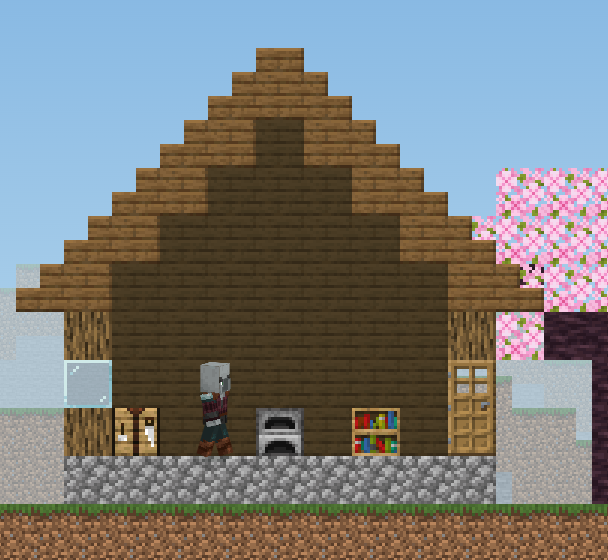
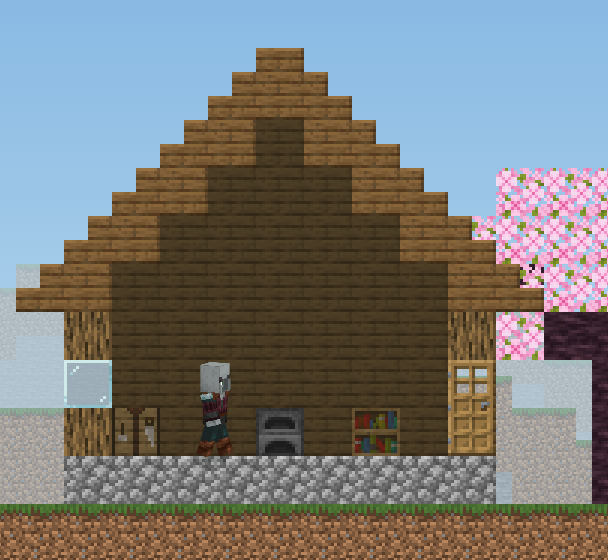
Move workbenches furnaces and bookshelves into muted background

Changed region(s): [[0.5625, 0.7286, 0.6562, 0.8196], [0.4062, 0.7286, 0.5, 0.8196], [0.1875, 0.7286, 0.2812, 0.8196]]

diff --git a/README.md b/README.md
@@ -50,11 +50,11 @@ Windows 玩家可下载[0.11.0 历史试玩包](https://github.com/qcya/stone-at
 | 末影珍珠 | 无损穿过一面厚度不超过两完整方块（96px）的墙，出口必须安全 | 飞行命中普通怪直接击杀；监守者需四枚；落稳后无接触伤害 |
 | 烈焰弹 | 点燃相连木材，逐像素燃烧；以命中格为中心最宽五格 | 每发三次持续伤害；普通怪三次烧死，监守者六次 |
 
-烈焰弹可烧实体层的原木、木板、门、台阶、梯子、工作台、书架；不烧土、石头、玻璃、熔炉，也不独立点燃背景墙。实体像素烧毁时，同位置背景一并消失。起点及存在的四邻木块保证燃烧，蔓延受连接和半径限制，不跨空隙。使用原版火焰动画与音效。
+烈焰弹可烧实体层的原木、木板、门、台阶和梯子；不烧土、石头、玻璃，也不独立点燃背景墙和背景家具。实体像素烧毁时，同位置背景一并消失。起点及存在的四邻木块保证燃烧，蔓延受连接和半径限制，不跨空隙。使用原版火焰动画与音效。
 
 命中不可燃表面也会在撞击面外侧留下2.8秒火区，以相邻空格为中心及四邻格形成十字，经过的怪物同样会受到三段燃烧伤害。此类落火只烧接触到的局部木格，不沿相连木材继续蔓延；直接命中木材才使用原有五格直径的蔓延规则。
 
-**背景只有暗色墙面，没有实体，不参与碰撞；前景像素破坏后，同位置背景一起消失，TNT 还能直接炸毁背景。** 背景不独立点燃或蔓延燃烧。玻璃、门、工作台、熔炉、书架都放在实体层，按正常亮度显示，实际阻挡弹药与怪物。建筑使用整格方块、玻璃及半格楼梯形状，楼梯下的实心衔接让屋顶连成一体；画面和碰撞网格一致，失去支撑的建筑仍固定。第一关木屋由掠夺者驻守。爆炸能推动场上弹药，TNT 各自保留引信。弹药、敌人使用本地 Matter.js 0.20.0，无降级物理模式。
+**背景包括暗色墙面与淡色家具，没有实体，不参与碰撞；前景像素破坏后，同位置背景一起消失，TNT 还能直接炸毁露出的背景。** 工作台、熔炉、书架为背景装饰，不挡弹药或怪物，不独立点燃或蔓延燃烧；玻璃、门保留实体和正常亮度。建筑使用整格方块、玻璃及半格楼梯形状，楼梯下的实心衔接让屋顶连成一体；画面和碰撞网格一致，失去支撑的建筑仍固定。第一关木屋由掠夺者驻守。爆炸能推动场上弹药，TNT 各自保留引信。弹药、敌人使用本地 Matter.js 0.20.0，无降级物理模式。
 
 监守者（用户所称坚守者）在第九、十关出现，使用独立大体型碰撞、原版皮肤和立体四肢动画。同一颗圆石反复接触只算一次；爆炸后的落地伤害不会额外扣除其耐久，跌出场景仍算击败。普通怪物会行走、停步观望和抬手，受伤泛红、倒地、白色粒子消散。
 

diff --git a/docs/DEVELOPMENT.md b/docs/DEVELOPMENT.md
@@ -9,7 +9,7 @@
 - `src/draw-audio.mjs`：用户手势开启的原版弩加载采样；释放/取消/暂停/重开停止。
 - `src/world.mjs`：统一 Matter 物理、逐像素伤害、整片玻璃破碎、TNT 冲量、珍珠测墙厚。
 - `src/scenery.mjs`、`src/renderer.mjs`：原版纹理远景、动态方云、实体正常亮度与背景墙固定暗色、接触阴影。
-- `src/levels.mjs`、`src/rear.mjs`：手工关卡、相连的实体楼梯屋顶与暗色背景墙。玻璃及家具在实体网格内；背景不碰撞，随对应前景像素破坏，也可被 TNT 直接炸毁，不独立燃烧。
+- `src/levels.mjs`、`src/rear.mjs`：手工关卡、相连的实体楼梯屋顶与背景墙/家具。玻璃、门在实体网格内；工作台、熔炉、书架放在背景，使用65%亮度，墙面42%。背景不碰撞，随对应前景像素破坏，露出的背景也可被 TNT 直接炸毁，不独立燃烧。
 - `tests/`：正常 Matter 核心测试和实际鼠标浏览器测试；开发辅助可在测试存档中预先开放关卡，正常新玩家仍只能第一关开始。
 
 接手基线为 `6a5719d`，曾有资源 404、混合伪物理、碰撞与像素不一致。0.6 统一物理，0.7 根据反馈取消房屋坍塌，0.7.2 修复端口占用启动。0.8 视觉方案按后续反馈调整后，与 0.9 闯关一起交付。

diff --git a/docs/TOY.md b/docs/TOY.md
@@ -1,6 +1,12 @@
 # B 站 Toy 适配
 
-## 当前试玩：前后景同步破坏 — 2026-10-18
+## 当前试玩：家具改为淡色背景 — 2026-10-18
+
+工作台、熔炉、书架移到非碰撞背景，不再挡弹药或怪物，也不会被普通撞击击中或单独引燃。家具纹理使用65%亮度和压低对比度，暗色墙面仍为42%；玻璃、门、柱子、屋顶以及矿石保留实体。保留前后景同步破坏及 TNT 对裸露背景的破坏规则。家用站和 GitHub 同步，不提交 Toy 审核，不改玩家记录。
+
+190 项单元测试通过，包括十关有限弹药通关回放和计时扰动；5 项浏览器回归通过，含前两关实际通关、解锁和保存，以及屋顶前后景同步破坏。实机截图已检查：`evidence/background-furniture-stage-1.png`、`-3.png`、`-4.png`。
+
+## 历史试玩：前后景同步破坏 — 2026-10-18
 
 圆石撞击、碎玻璃和燃烧清除实体像素时，同坐标背景像素一起消失，不留下暗色残墙。只受损但未破坏的前景不会提前清掉背景。TNT 还可按爆炸范围直接破坏裸露背景。背景仍无碰撞，不独立点燃或传播火焰；未被破坏的建筑保持悬空。本次只更新家用站和 GitHub，不提交 Toy 审核，不改玩家记录。
 
